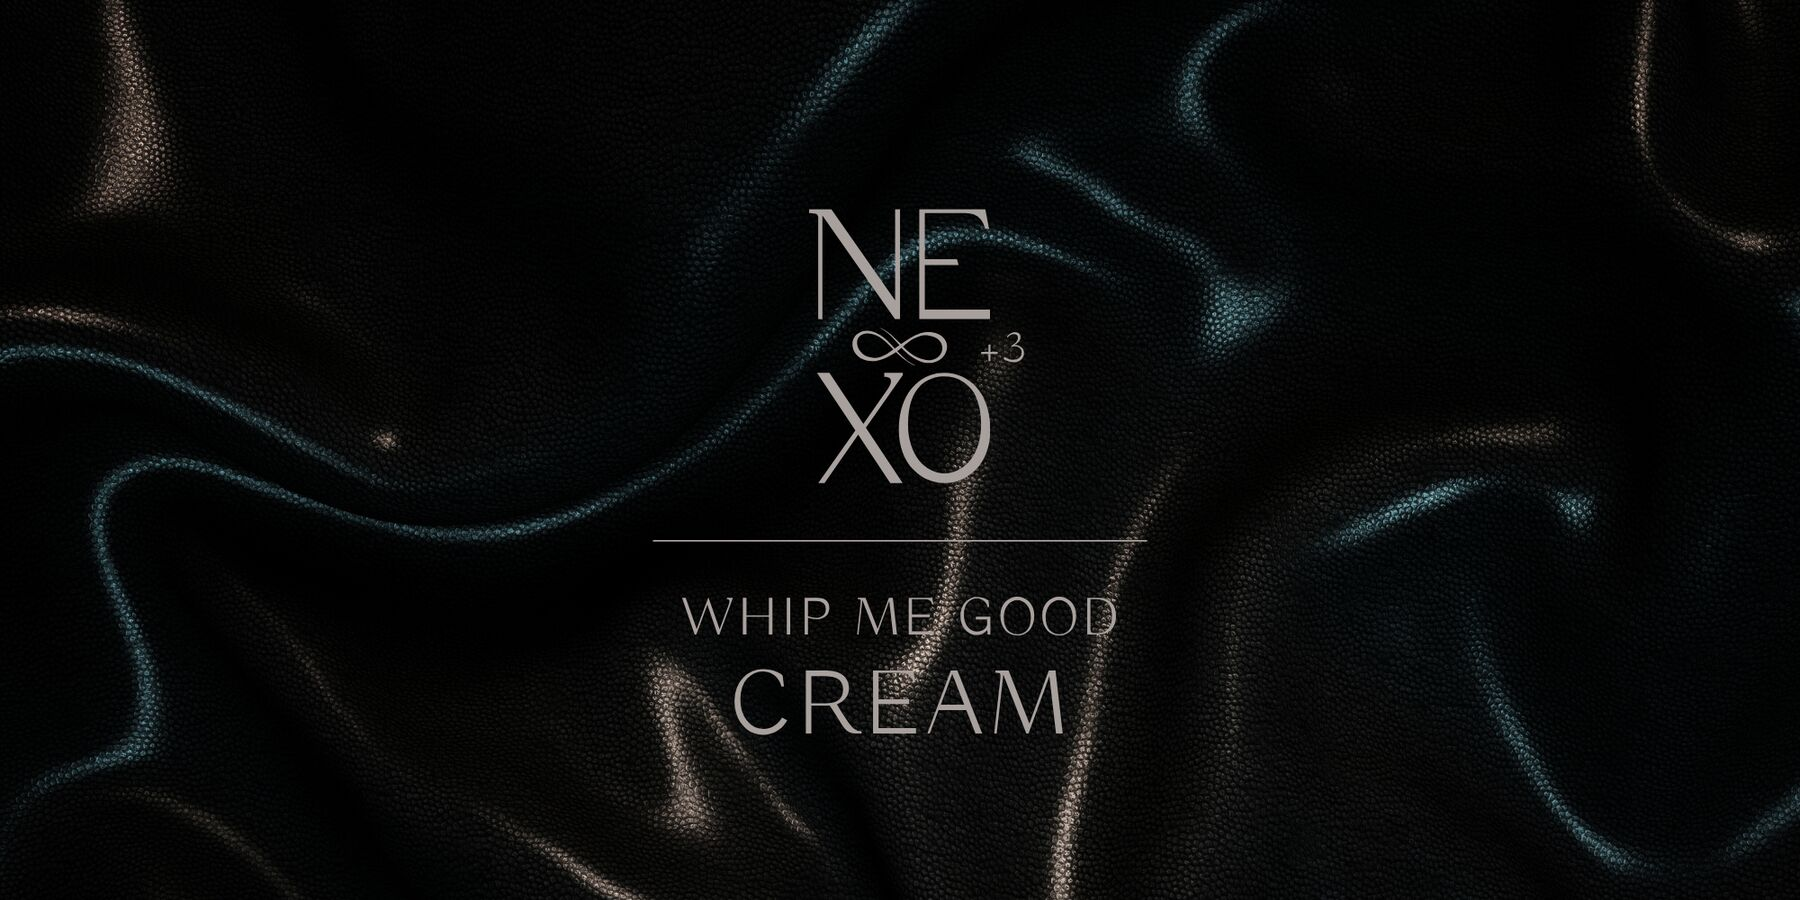
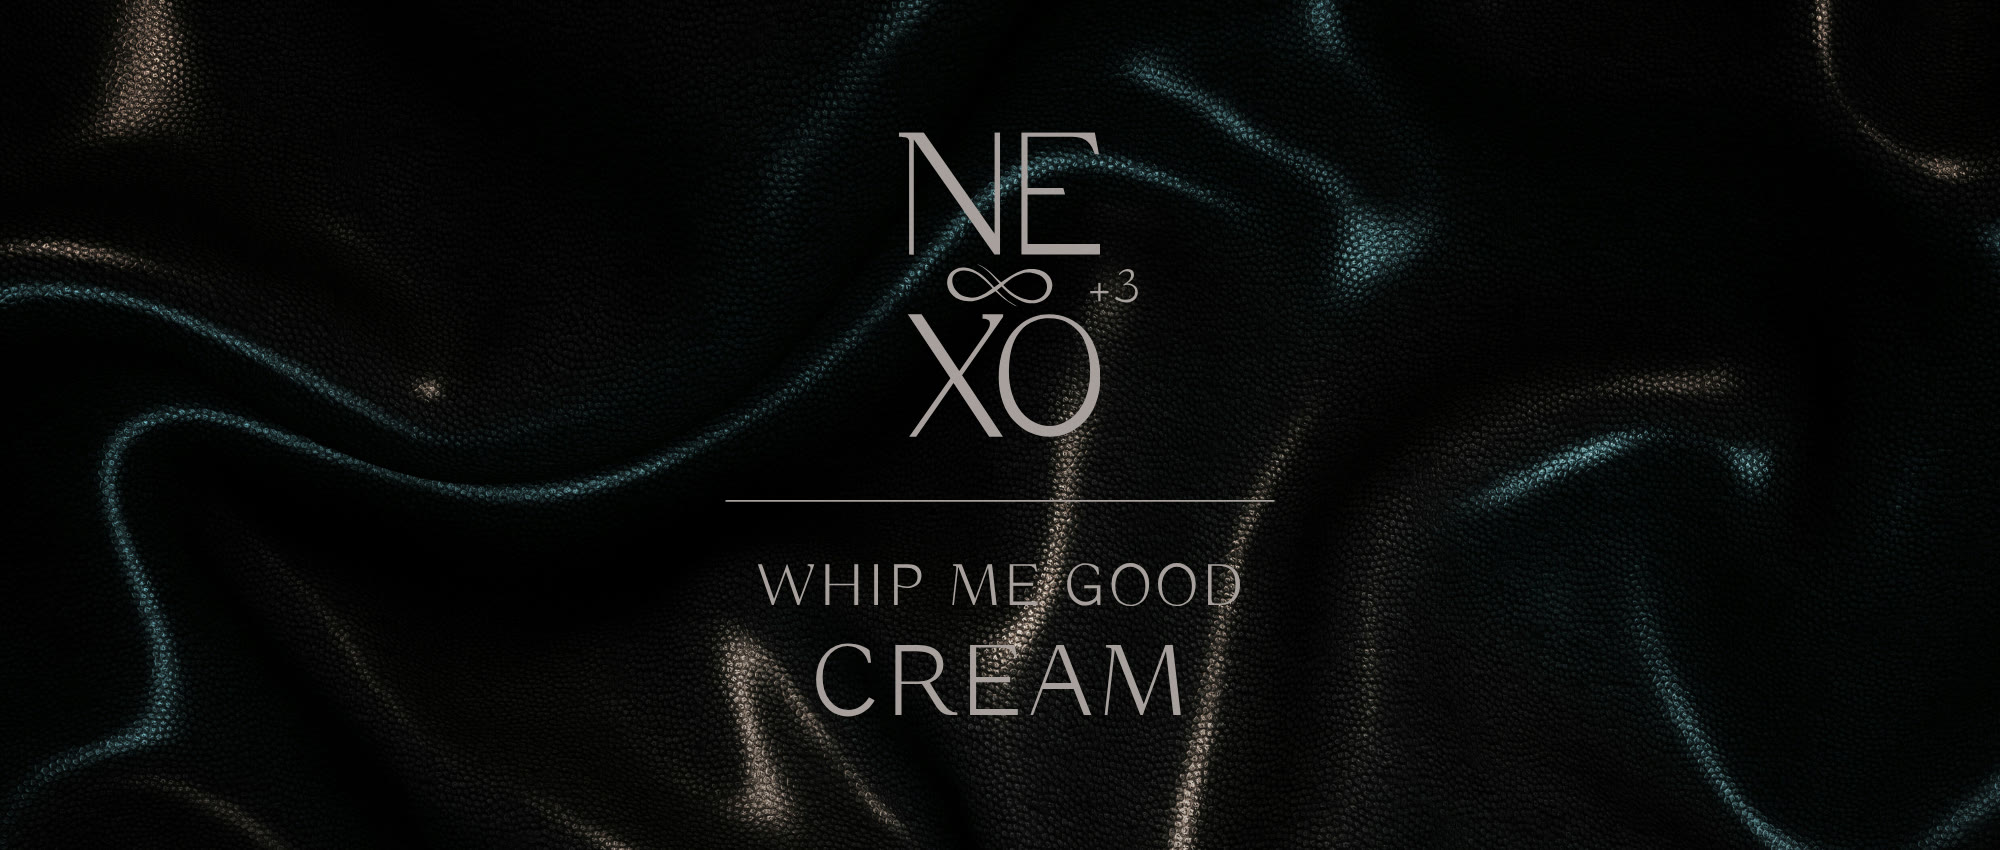
Landningssida: produktnamn synligt i postrarna + flaskor per section
- Nya desktop-postrar (ffmpeg): lockup + produktnamn synligt,
  claims-raderna borttagna (stimulerar/läkning) — contain-framing
  så hela kompositionen alltid syns under headern
- Produktrender bredvid varje ritual-section (+1/+2/+3) med
  mask som smälter in renderns egen scen i postern
- +2-bilderna godkända som de är av ägaren (etikettexten
  'MIST ME E CRAZY' accepterad 2026-08-31) — .dev-filerna
  bytte namn till final, PDP läser dem som vanliga assets
- Asset-manifest uppdaterat med besluten
- Verifierat desktop (3 steg) + mobil 390x844
- Validator: PASS, 0 blockerade fält

diff --git a/theme/assets/nexo-ritual.css b/theme/assets/nexo-ritual.css
@@ -43,13 +43,38 @@
   object-position: 50% 40%;
 }
 
-/* Desktop posters (landscape): per-step framing so the baked lockup
-   keeps its composition under cover-crop — framed upward so the
-   bottom tagline strip is cropped away */
+/* Desktop posters: pre-cropped assets (lockup + product name, no baked
+   tagline/claim strip) — contain keeps the whole composition visible;
+   the letterbox edges melt into the black hero */
 @media (min-width: 1024px) {
-  .ritual__step[data-step="1"] .ritual__material img { object-position: 50% 0%; }
-  .ritual__step[data-step="2"] .ritual__material img { object-position: 50% 20%; }
-  .ritual__step[data-step="3"] .ritual__material img { object-position: 50% 0%; }
+  .ritual__material img {
+    object-fit: contain;
+    object-position: 50% 50%;
+  }
+}
+
+/* The actual product render beside each step's material — the bottle
+   sits above the material+veil but below the glass commerce card.
+   Edge mask lets the render's own scene melt into the poster */
+.ritual__bottle {
+  position: absolute;
+  z-index: 1;
+  left: 4%;
+  bottom: 8%;
+  height: min(50vh, 520px);
+  width: auto;
+  pointer-events: none;
+  -webkit-mask-image: radial-gradient(ellipse 78% 78% at 50% 55%, #000 42%, transparent 72%);
+  mask-image: radial-gradient(ellipse 78% 78% at 50% 55%, #000 42%, transparent 72%);
+}
+@media (max-width: 1023px) {
+  .ritual__bottle {
+    left: auto;
+    right: 2%;
+    bottom: auto;
+    top: 14%;
+    height: 30vh;
+  }
 }
 
 /* The three materials breathe with different bodies:

diff --git a/production/build.py b/production/build.py
@@ -155,14 +155,14 @@ def main():
         # handle, asset, role, production_status, note
         ("lather-me-up", "pdp-lather-1.jpg", "primary PDP image", "approved", "bottle on stone, correct +1 lockup"),
         ("lather-me-up", "pdp-lather-2.jpg", "secondary PDP image", "approved", "lather texture on bottle"),
-        ("lather-me-up", "material-lather-desktop.jpg", "homepage material (desktop)", "approved", "full 2.png poster, top-padded for header clearance"),
+        ("lather-me-up", "material-lather-desktop.jpg", "homepage material (desktop)", "approved", "2.png pre-cropped: lockup + product name, bottom claim sentence removed ('stimulerar hårbotten')"),
         ("lather-me-up", "material-lather-mobile.jpg", "homepage material (mobile)", "approved", "clean text-free crop of 2.png"),
-        ("mist-me-crazy", "pdp-mist-1.dev.jpg", "primary PDP image", "DEV-ONLY-REPLACE-BEFORE-LAUNCH", "render typo 'ECRAZY'"),
-        ("mist-me-crazy", "pdp-mist-2.dev.jpg", "secondary PDP image", "DEV-ONLY-REPLACE-BEFORE-LAUNCH", "render typo 'ECRAZY'"),
-        ("mist-me-crazy", "material-mist-desktop.jpg", "homepage material (desktop)", "approved", "full 5.png aloe poster"),
+        ("mist-me-crazy", "pdp-mist-1.jpg", "primary PDP image", "approved-owner-decision", "label reads 'MIST ME E CRAZY' — accepted as-is by owner 2026-08-31; re-render welcome, not required"),
+        ("mist-me-crazy", "pdp-mist-2.jpg", "secondary PDP image", "approved-owner-decision", "label reads 'MIST ME E CRAZY' — accepted as-is by owner 2026-08-31; re-render welcome, not required"),
+        ("mist-me-crazy", "material-mist-desktop.jpg", "homepage material (desktop)", "approved", "5.png pre-cropped: lockup + product name, bottom line removed for consistency"),
         ("mist-me-crazy", "material-mist-mobile.jpg", "homepage material (mobile)", "approved", "clean text-free crop of 3.png"),
         ("whip-me-good", "pdp-whip-1.jpg", "primary PDP image", "approved", "JAR is canonical +3 representation"),
-        ("whip-me-good", "material-whip-desktop.jpg", "homepage material (desktop)", "approved", "4.png cropped above tagline — removes baked 'läkning' claim"),
+        ("whip-me-good", "material-whip-desktop.jpg", "homepage material (desktop)", "approved", "4.png pre-cropped: lockup + product name, bottom claim removed ('stödjer läkning')"),
         ("whip-me-good", "material-whip-mobile.jpg", "homepage material (mobile)", "approved", "clean text-free crop of 4.png"),
         ("whip-me-good", "ritual-combo.jpg", "unused", "excluded-unconfirmed-pump", "contains unconfirmed cream pump bottle — never as +3 imagery"),
         ("the-ritual", "ritual-group.jpg", "bundle background", "approved", "pump shampoo + spray + jar, candle"),
